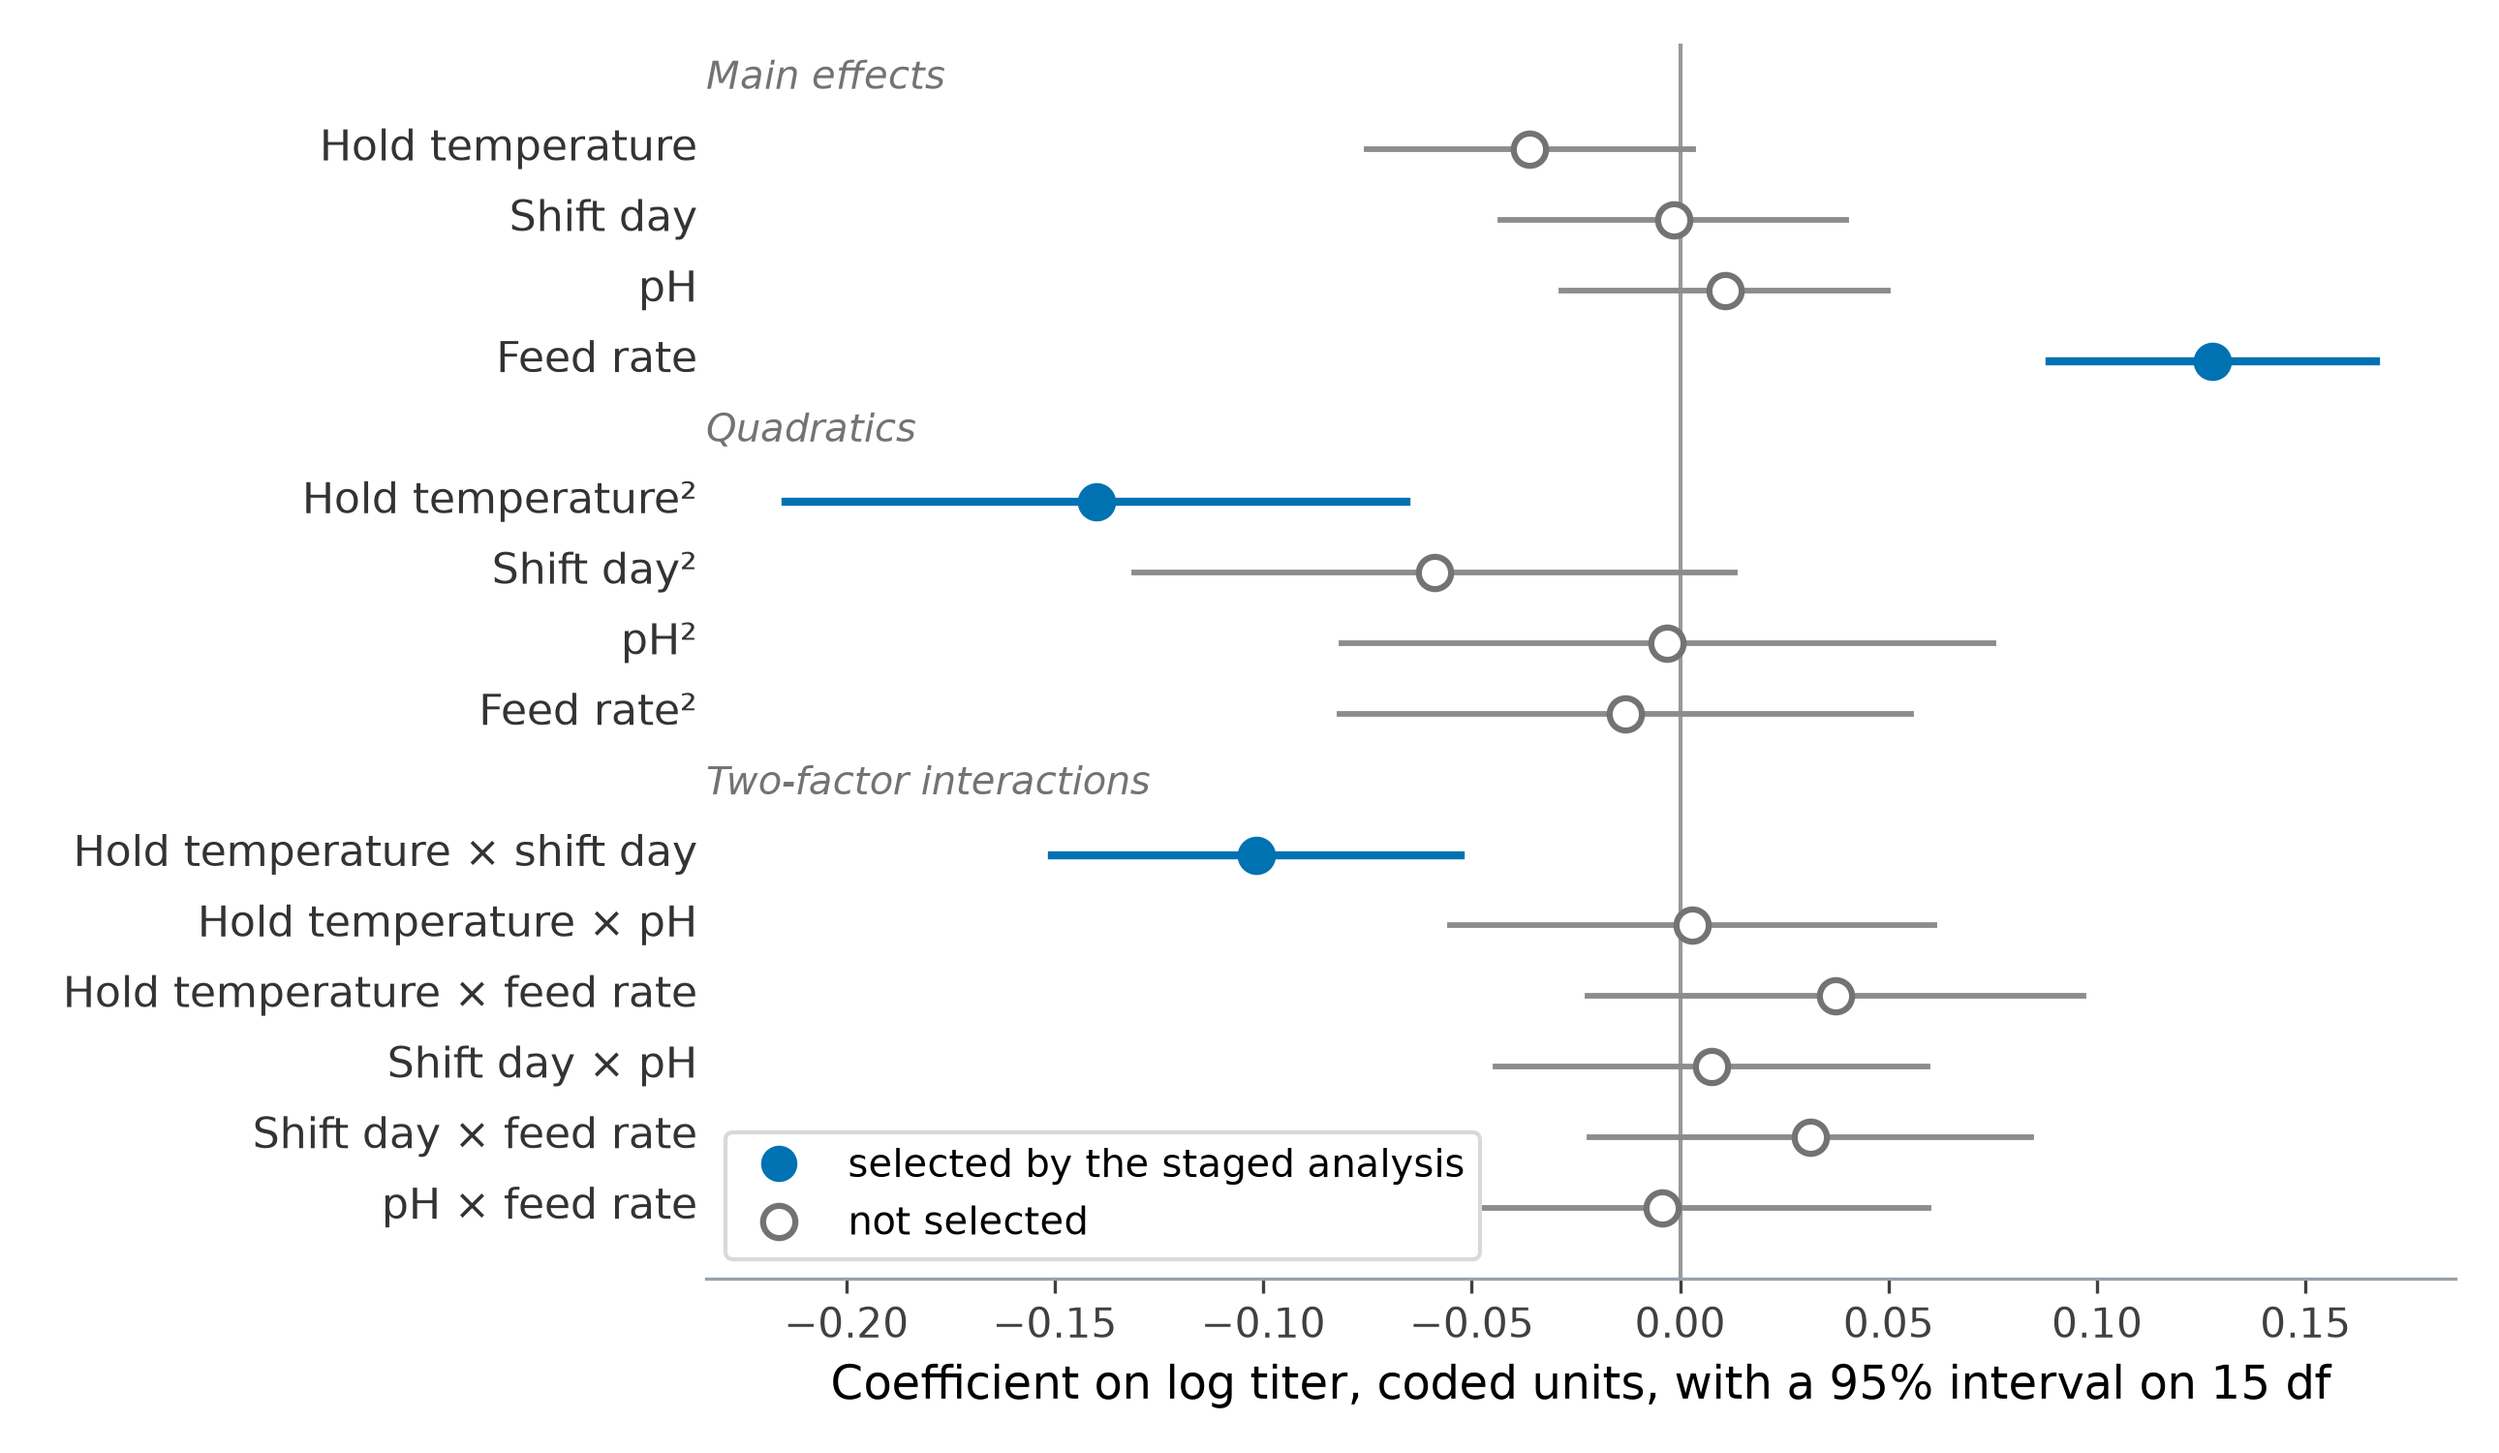
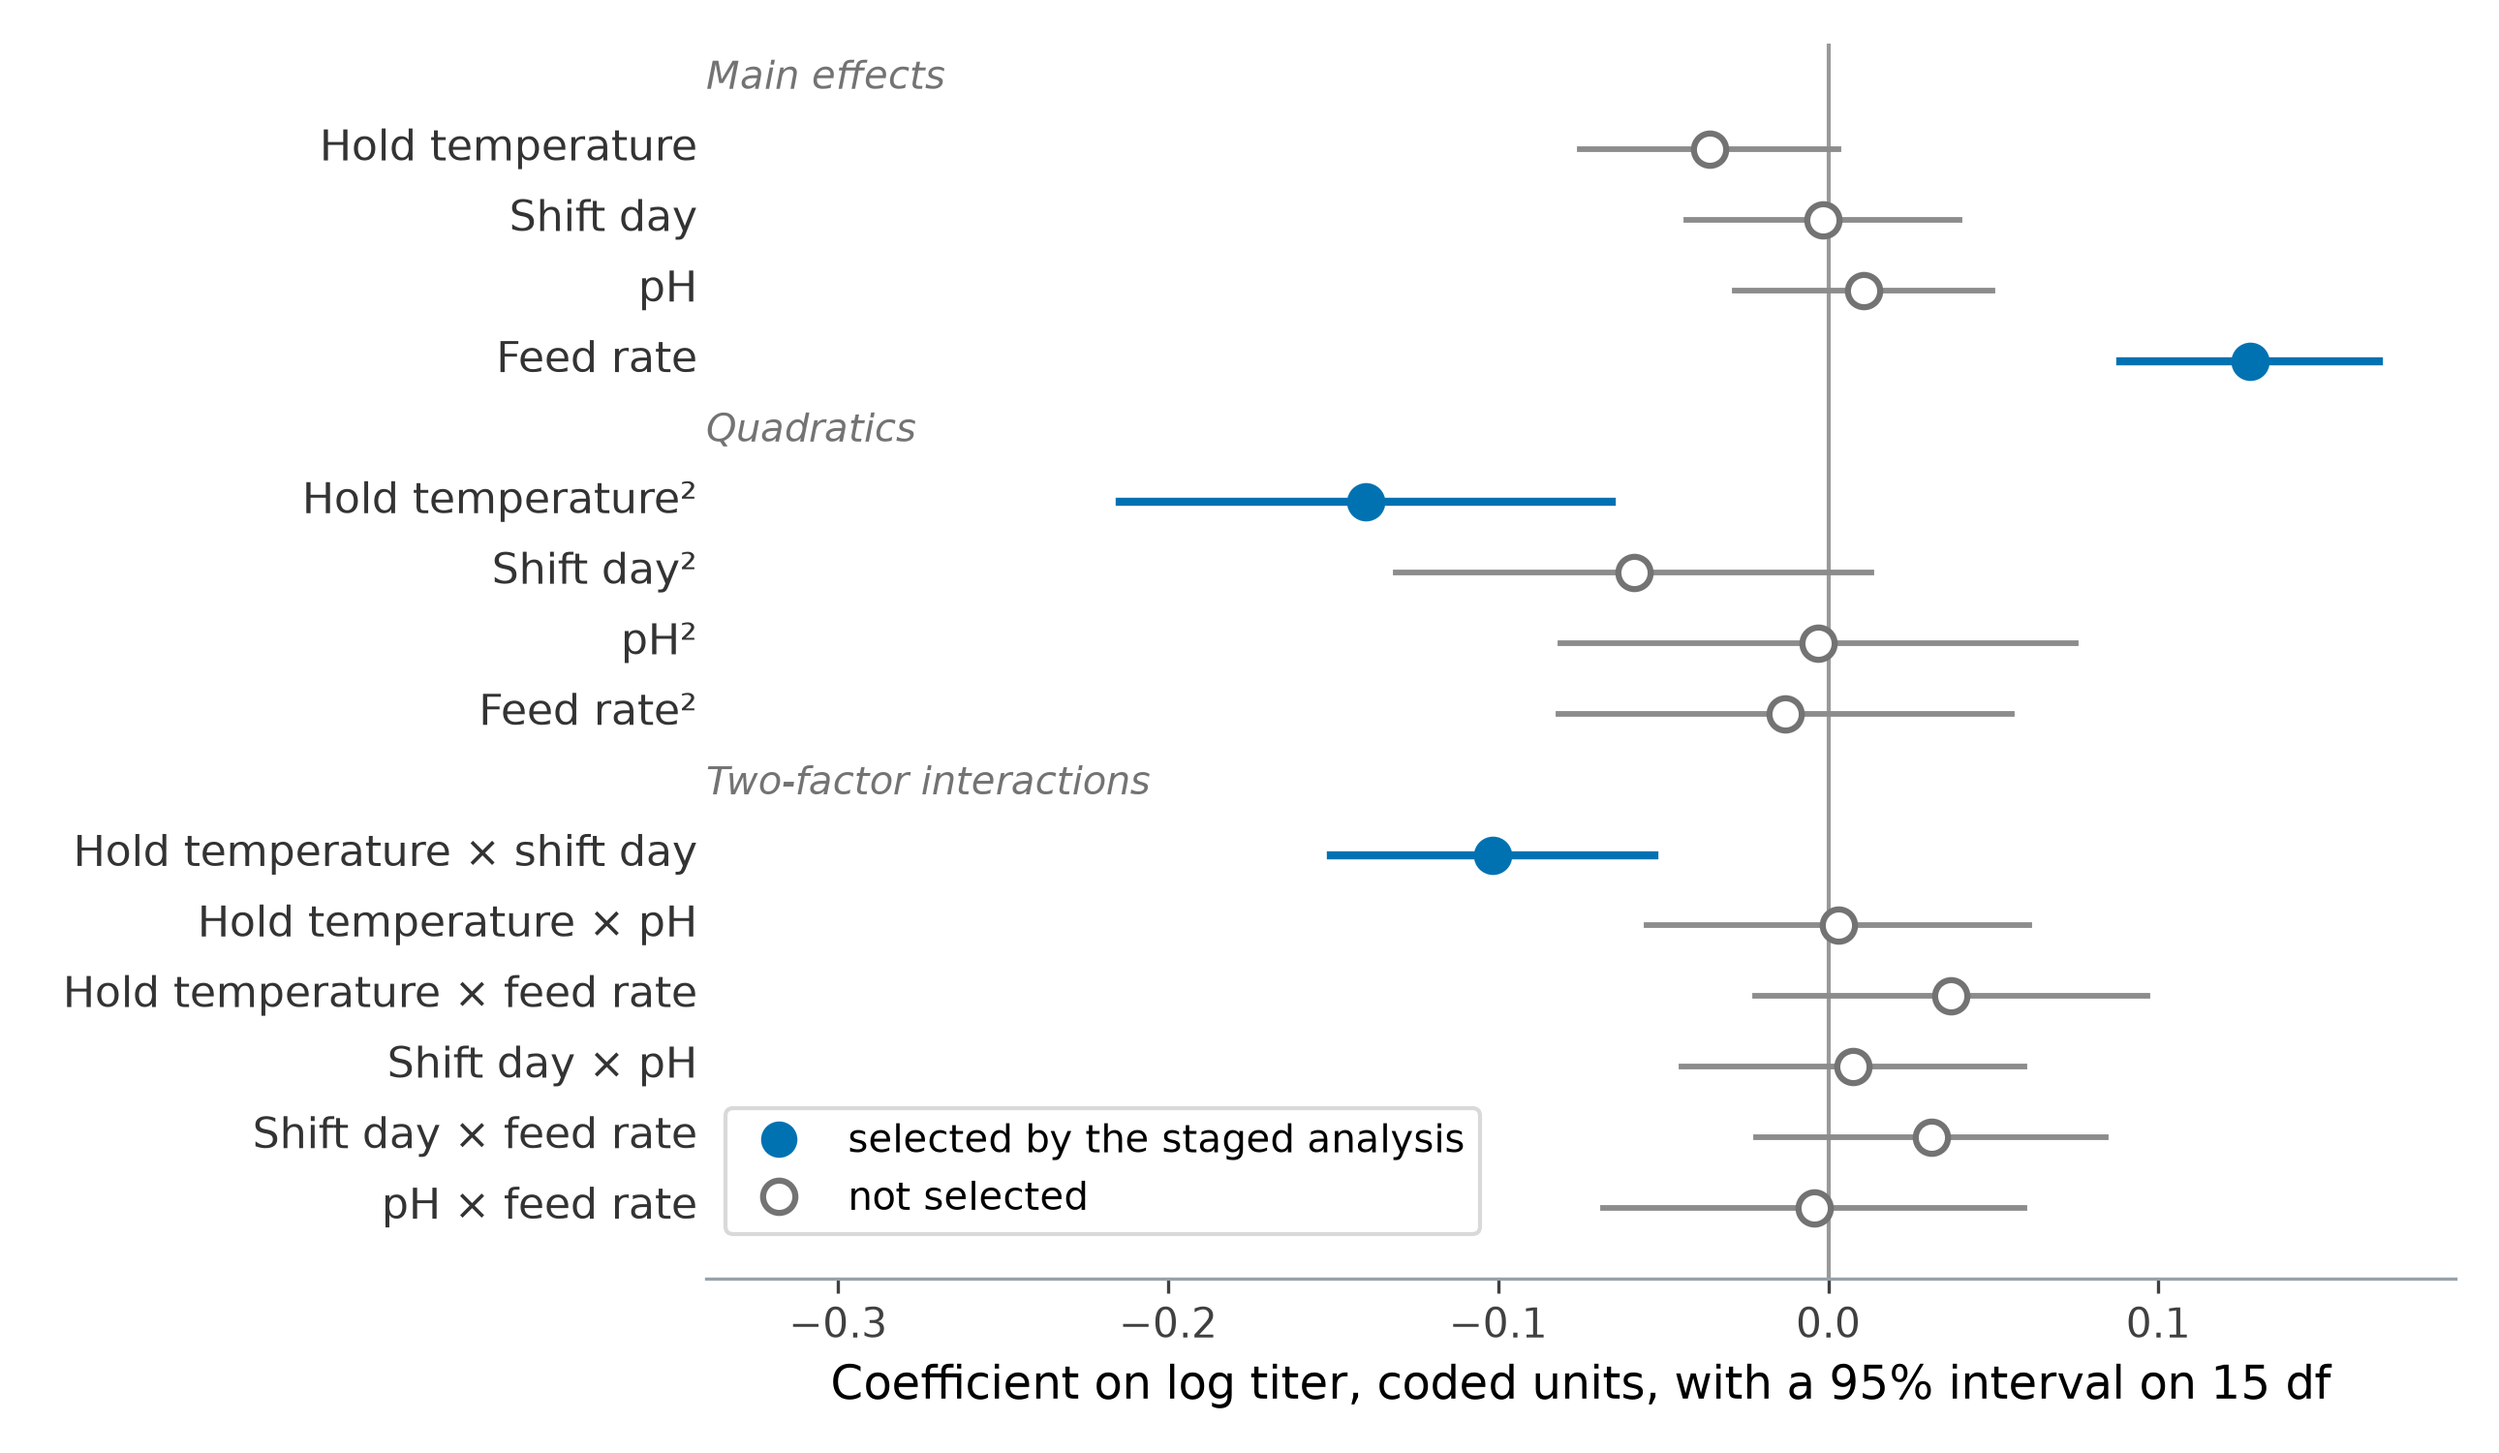
Give the effects legend room, and wrap the recipe legends
The effects plot's x-axis extends further left so the legend box sits
clear of the interaction intervals. The recipe figure's legend entries
wrap onto two lines, so both boxes are narrower.

Claude-Session: https://claude.ai/code/session_01W1daHPaXLs7PPRsq8CmMMm

diff --git a/doe/omars-worked-study-recipe.py b/doe/omars-worked-study-recipe.py
@@ -33,7 +33,7 @@ for hold, shift in ((28.5, 2.0), (28.5, 3.5), (31.5, 2.0), (31.5, 3.5)):
     ax_t.plot(days, schedule(hold, shift), color="0.78", lw=1.2, zorder=2)
 ax_t.plot(days, schedule(CURRENT["hold_temp"], CURRENT["shift_day"]), color=BLUE, lw=2.4, zorder=3,
           label="current recipe")
-ax_t.plot([], [], color="0.78", lw=1.2, label="corners of the study region")
+ax_t.plot([], [], color="0.78", lw=1.2, label="corners of the\nstudy region")
 ax_t.text(0.15, GROWTH_TEMP - 0.35, "growth,\n36.8 °C", fontsize=9.5, color=GREY, ha="left", va="top")
 ax_t.text(7.0, CURRENT["hold_temp"] + 0.3, "hold, 30.0 °C", fontsize=9.5, color=GREY, ha="left", va="bottom")
 ax_t.annotate("shift starts on day 2.75,\nramp of 1.5 days", xy=(3.55, 33.4), xytext=(5.6, 33.4),
@@ -51,7 +51,7 @@ for s in range(20):
     ax_y.plot(states.index, states["titer"], color=BLUE, lw=1.0, alpha=0.35, zorder=2)
 quiet = simulate(QUIET, **CURRENT, random_state=0).states
 ax_y.plot(quiet.index, quiet["titer"], color=VERMILION, lw=2.2, zorder=4, label="no disturbance")
-ax_y.plot([], [], color=BLUE, lw=1.0, alpha=0.6, label="20 replicate batches")
+ax_y.plot([], [], color=BLUE, lw=1.0, alpha=0.6, label="20 replicate\nbatches")
 ax_y.axvspan(CURRENT["shift_day"], CURRENT["shift_day"] + RAMP_DAYS, color="0.93", lw=0, zorder=1)
 ax_y.text(CURRENT["shift_day"] + RAMP_DAYS / 2, 8.9, "ramp", ha="center", va="top", fontsize=9.5,
           color=GREY)

diff --git a/doe/omars-worked-study-effects.py b/doe/omars-worked-study-effects.py
@@ -67,10 +67,12 @@ for y_gap, title in ((16.0, "Main effects"), (11.0, "Quadratics"), (6.0, "Two-fa
 
 ax.set_yticks([])
 ax.set_ylim(-1.0, 16.5)
+ax.set_xlim(-0.34, 0.19)                                # room on the left for the legend box
 ax.set_xlabel(f"Coefficient on log titer, coded units, with a 95% interval on {df} df", fontsize=11.5)
 ax.plot([], [], "o", color=BLUE, ms=8, label="selected by the staged analysis")
 ax.plot([], [], "o", color="white", mec="0.45", mew=1.5, ms=8, label="not selected")
-ax.legend(loc="lower left", fontsize=9.5, frameon=True, facecolor="white", edgecolor="0.85", framealpha=1.0)
+ax.legend(loc="lower left", bbox_to_anchor=(0.0, 0.02), fontsize=9.5, frameon=True, facecolor="white",
+          edgecolor="0.85", framealpha=1.0)
 for side in ("top", "right", "left"):
     ax.spines[side].set_visible(False)
 ax.spines["bottom"].set_color(SPINE)
